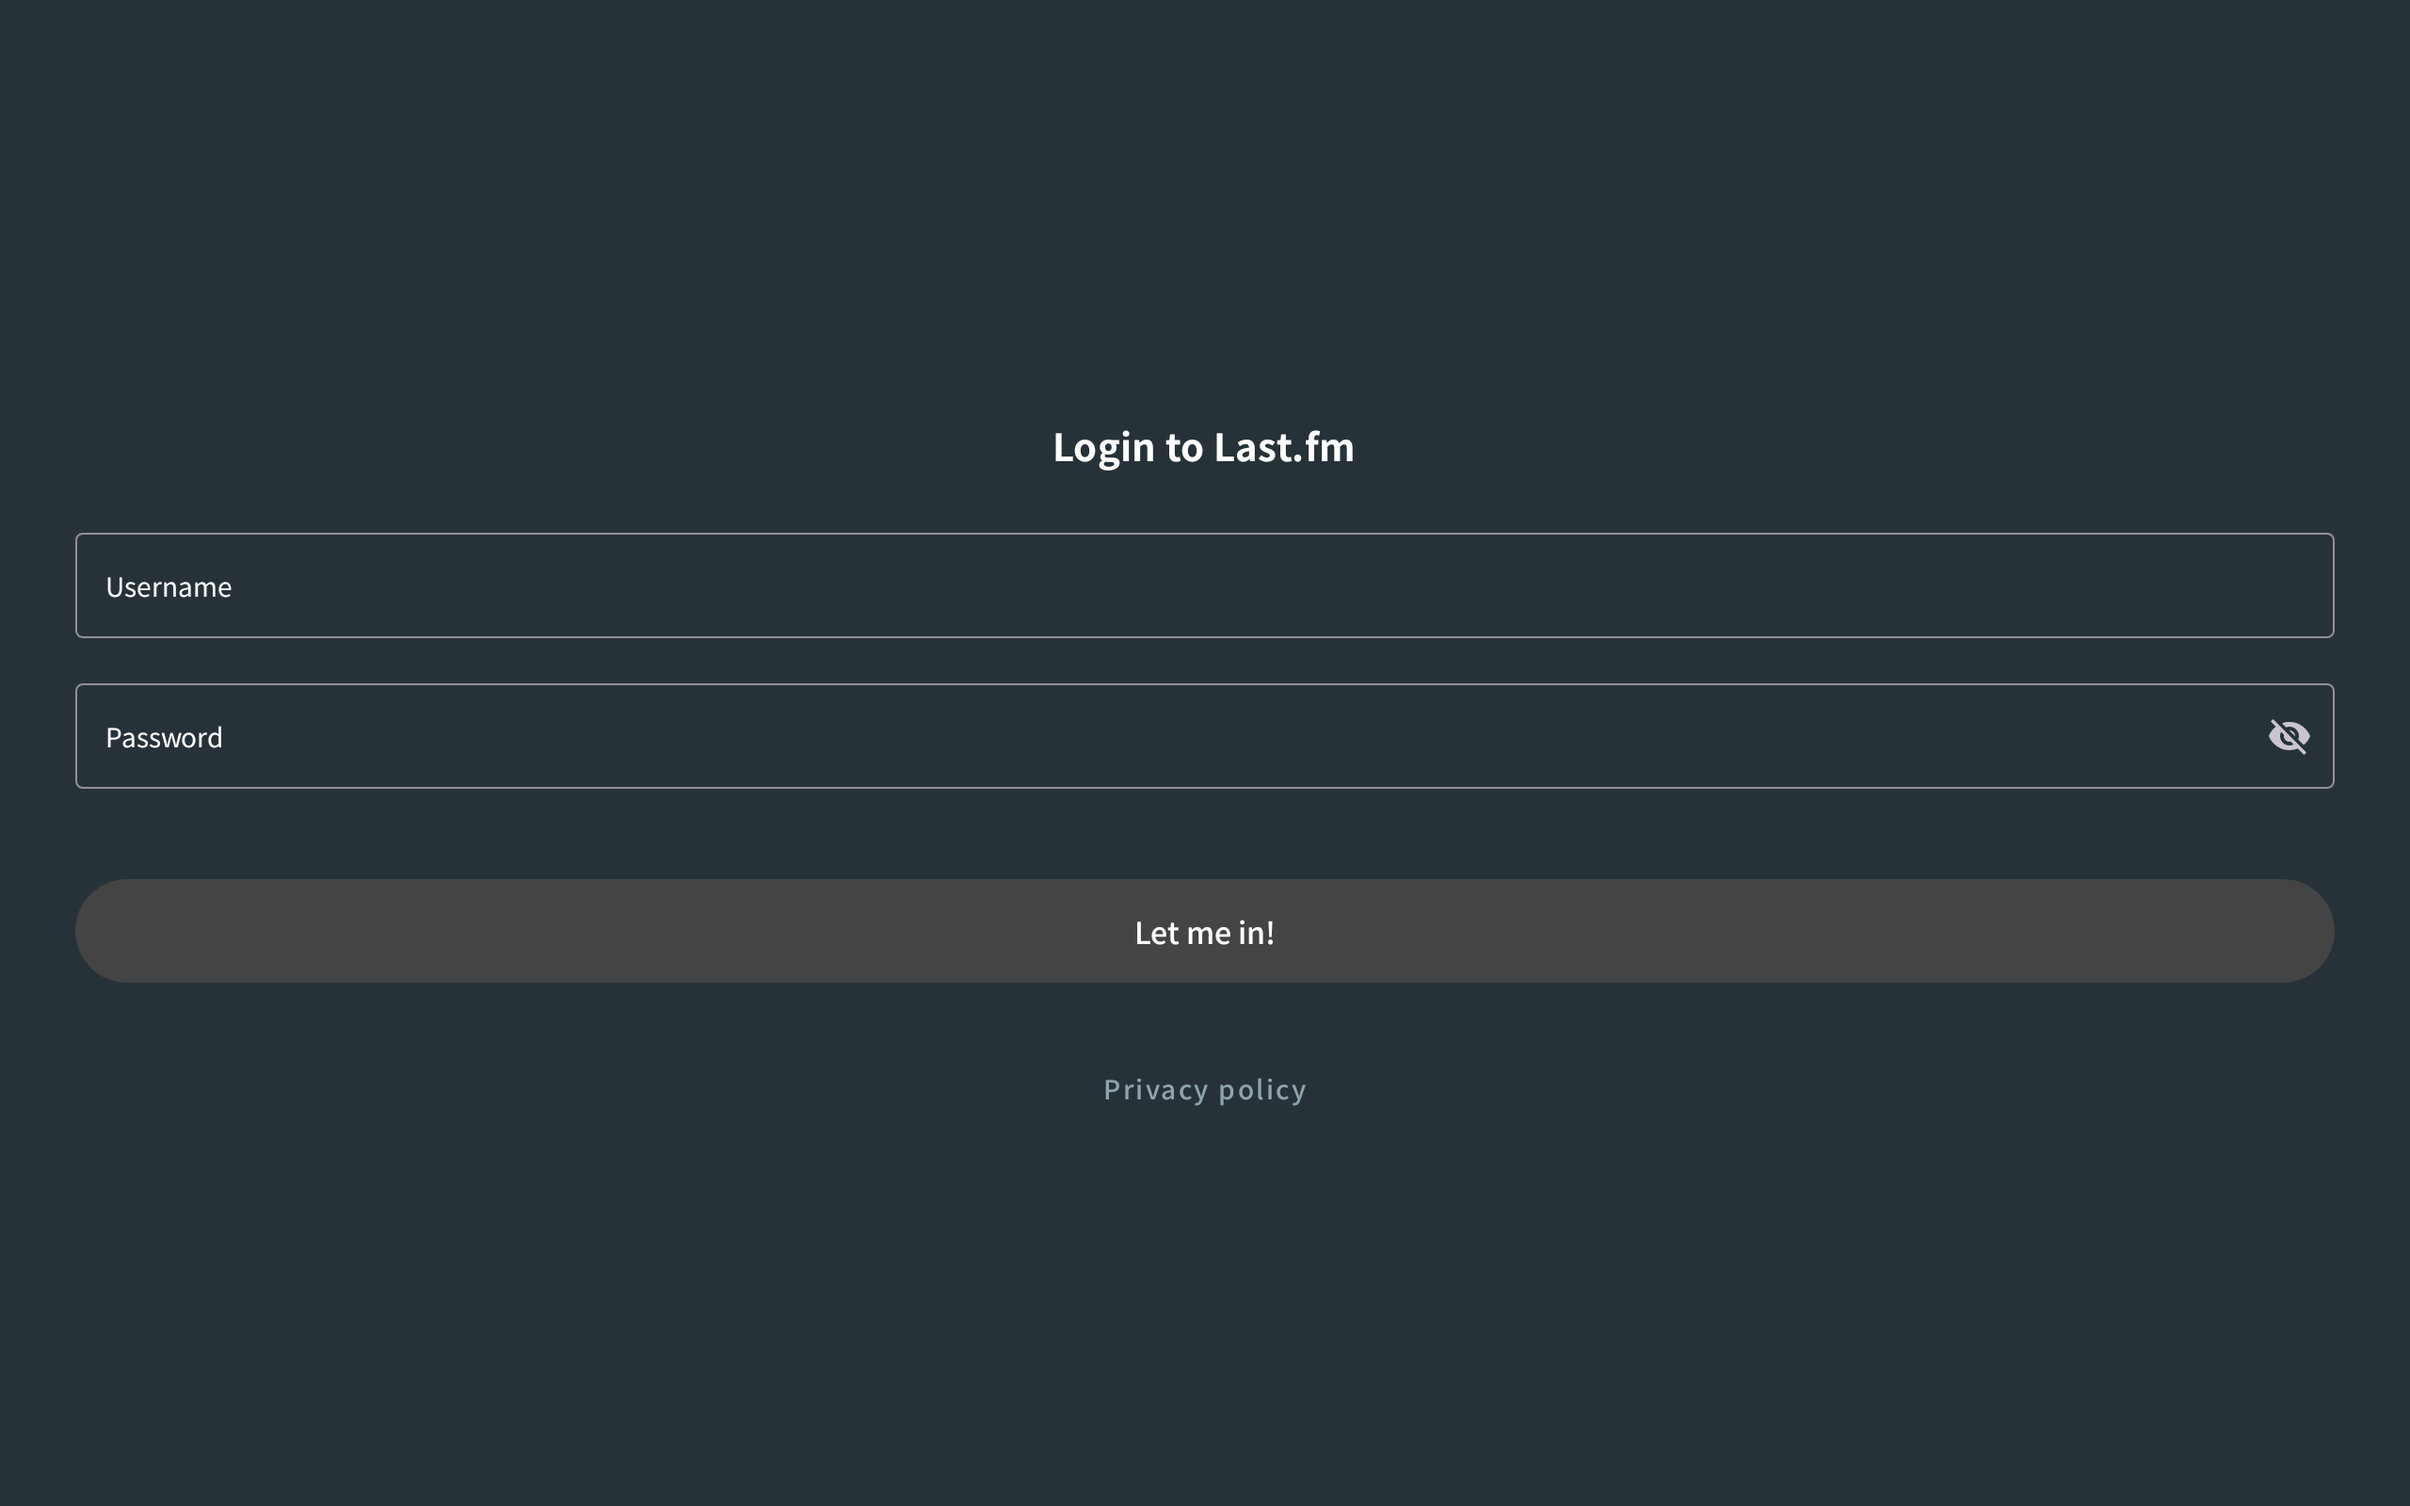
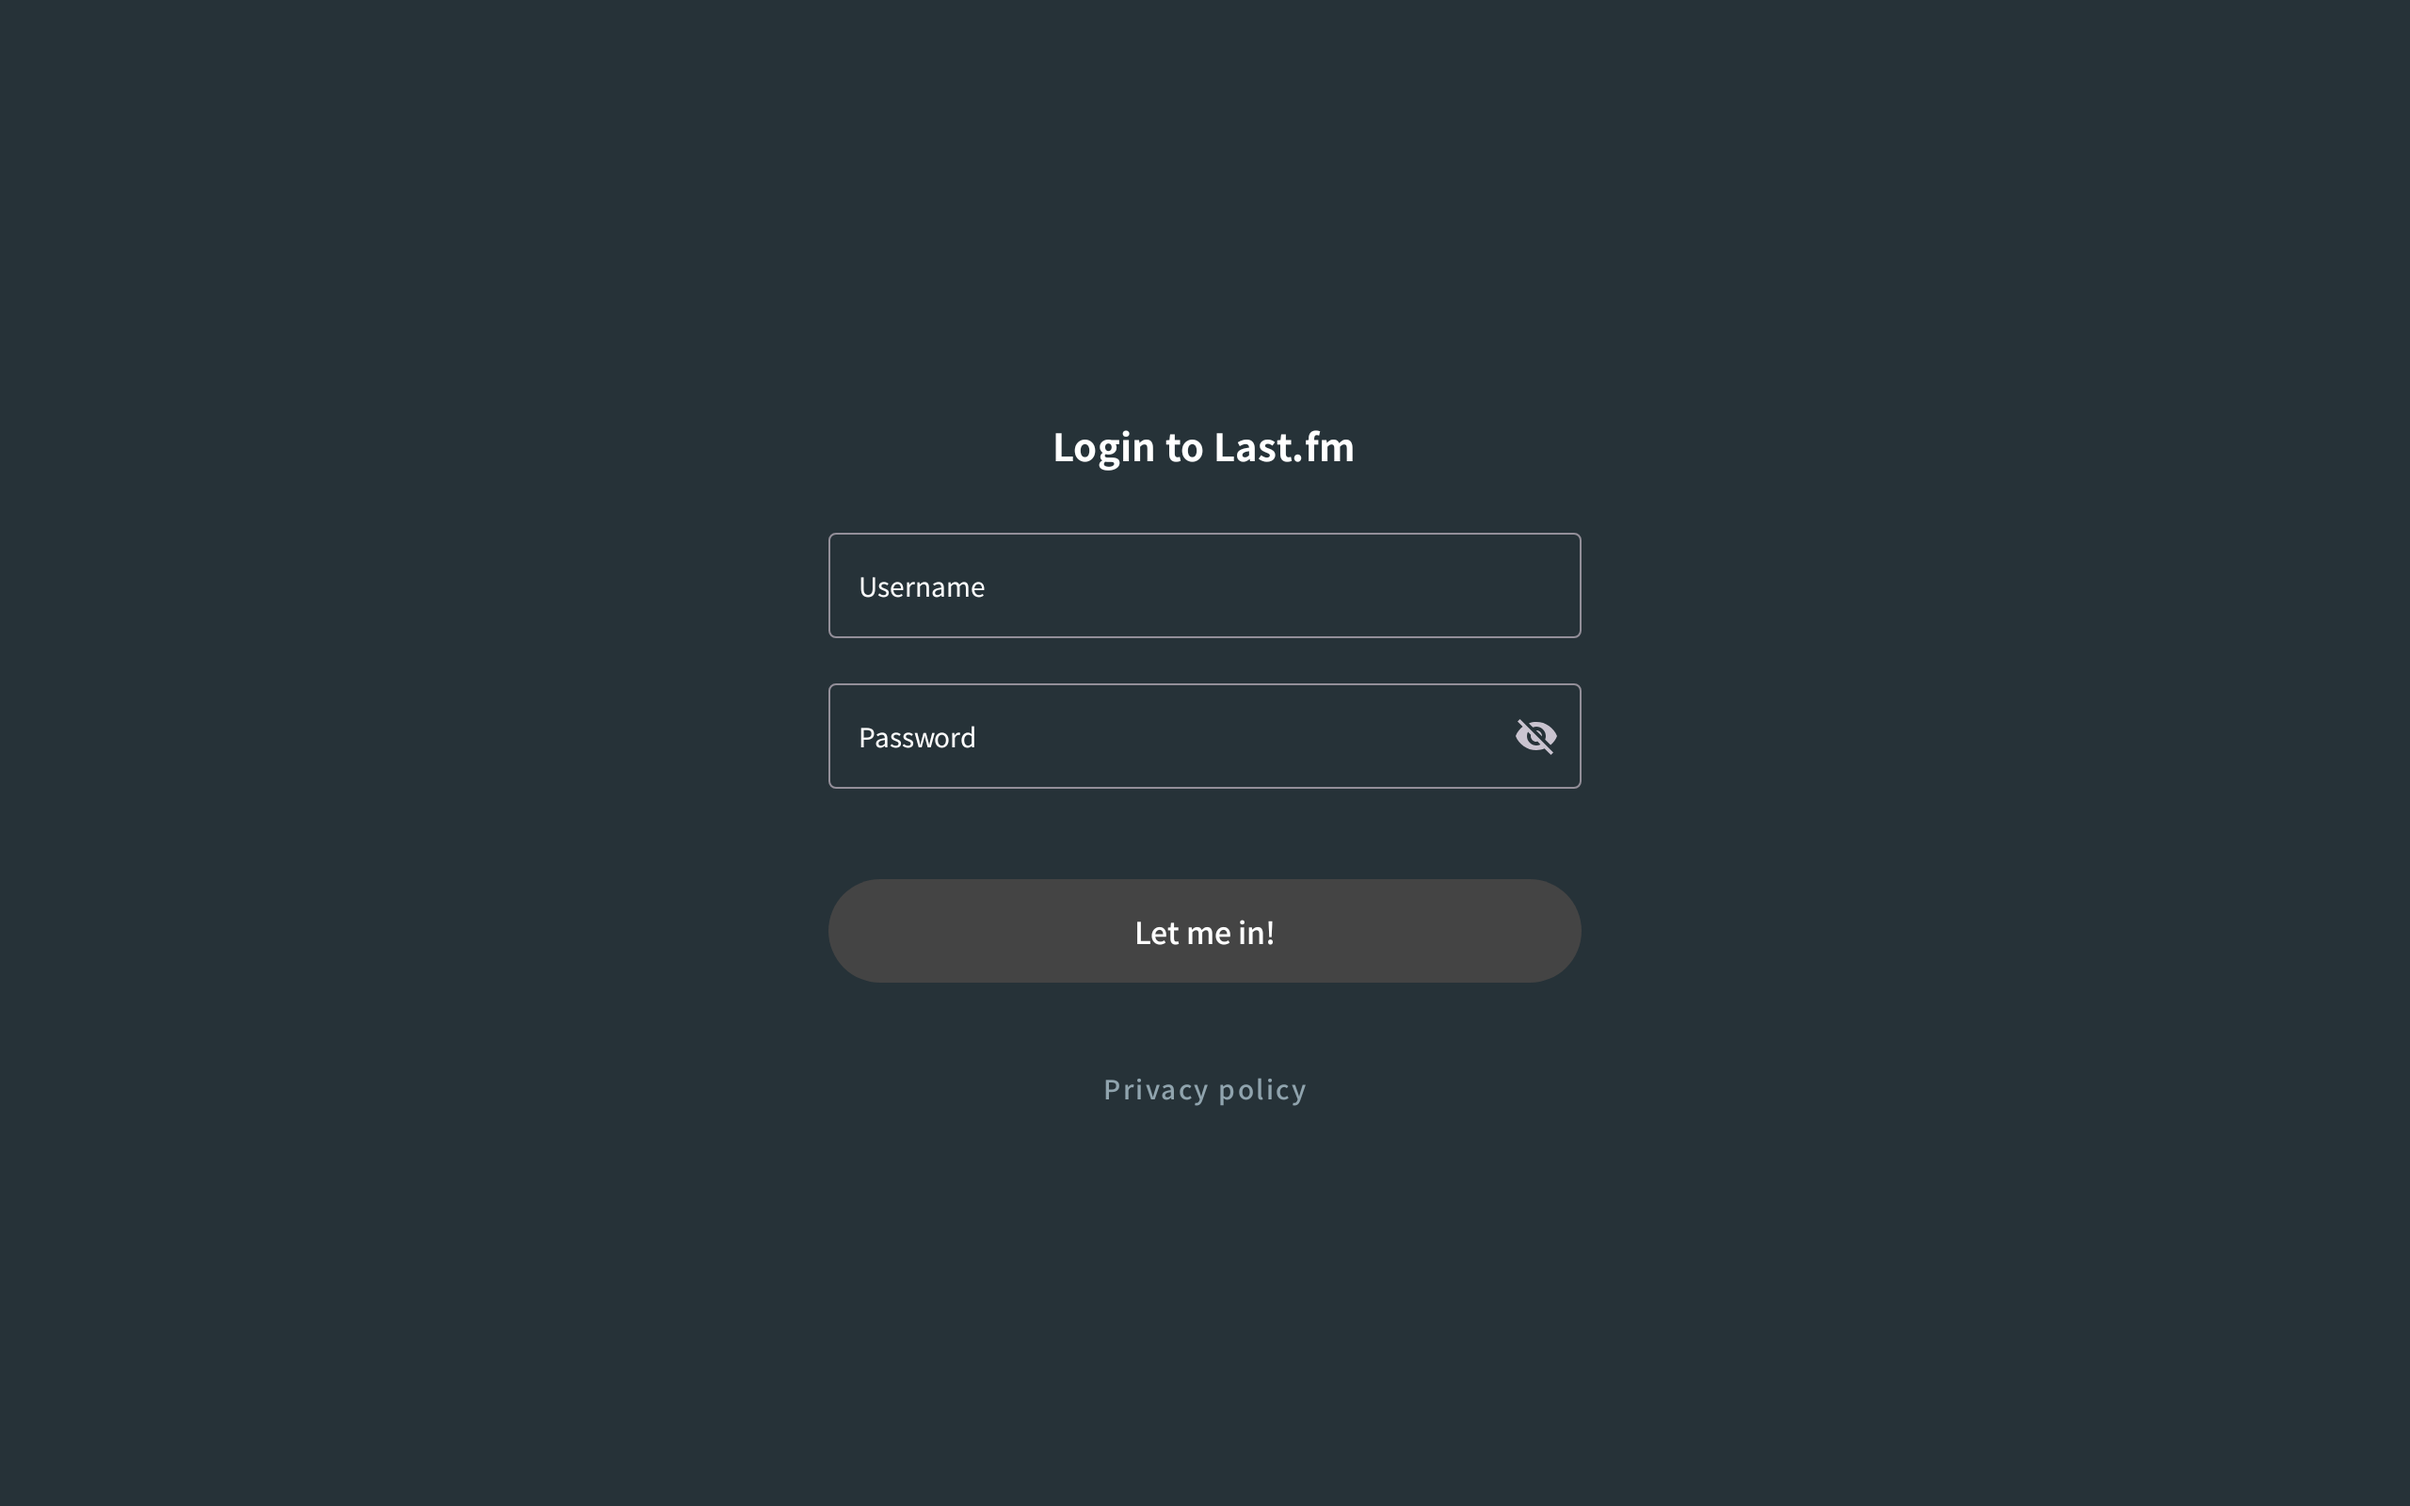
Center

diff --git a/feature/auth/src/main/java/com/mataku/scrobscrob/auth/ui/screen/LoginScreen.kt b/feature/auth/src/main/java/com/mataku/scrobscrob/auth/ui/screen/LoginScreen.kt
@@ -13,6 +13,7 @@ import androidx.compose.foundation.layout.imeNestedScroll
 import androidx.compose.foundation.layout.imePadding
 import androidx.compose.foundation.layout.padding
 import androidx.compose.foundation.layout.size
+import androidx.compose.foundation.layout.widthIn
 import androidx.compose.foundation.rememberScrollState
 import androidx.compose.foundation.text.KeyboardActions
 import androidx.compose.foundation.text.KeyboardOptions
@@ -138,127 +139,129 @@ private fun LoginContent(
     modifier = modifier
       .fillMaxSize()
       .verticalScroll(rememberScrollState())
-      .padding(horizontal = 16.dp)
       .imePadding()
       .imeNestedScroll(),
     horizontalAlignment = Alignment.CenterHorizontally,
     verticalArrangement = Arrangement.Center
   ) {
-    Spacer(modifier = Modifier.height(24.dp))
-
-    SunsetText.Title(
-      text = stringResource(id = uiCommonR.string.login_to_last_fm),
-      fontWeight = FontWeight.Bold,
-      modifier = Modifier.align(Alignment.CenterHorizontally),
-      color = LocalAppTheme.current.onSurfaceColor(),
-    )
-
-    Spacer(modifier = Modifier.height(24.dp))
-
-    SunsetTextField(
-      value = username,
-      onValueChange = {
-        onUsernameUpdate.invoke(it)
-      },
-      keyboardOptions = KeyboardOptions(
-        keyboardType = KeyboardType.Email,
-        imeAction = ImeAction.Next
-      ),
-      singleLine = true,
-      label = {
-        SunsetText.Label(
-          text = "Username",
-          color = LocalAppTheme.current.onSurfaceColor(),
-        )
-      },
+    Column(
       modifier = Modifier
-        .align(Alignment.CenterHorizontally)
+        .widthIn(max = 480.dp)
         .fillMaxWidth()
-        .padding(horizontal = 24.dp)
-        .semantics {
-          contentType = ContentType.Username
-        }
-    )
-
-    Spacer(modifier = Modifier.height(16.dp))
-
-    SunsetTextField(
-      value = password,
-      onValueChange = {
-        onPasswordUpdate.invoke(it)
-      },
-      keyboardOptions = KeyboardOptions(
-        keyboardType = KeyboardType.Password,
-        imeAction = ImeAction.Done
-      ),
-      singleLine = true,
-      visualTransformation = if (passwordVisible) VisualTransformation.None else PasswordVisualTransformation(),
-      trailingIcon = {
-        val icon = if (passwordVisible) {
-          Icons.Filled.Visibility
-        } else {
-          Icons.Filled.VisibilityOff
-        }
-        SunsetIconButton(onClick = {
-          passwordVisible = !passwordVisible
-        }) {
-          SunsetIcon(imageVector = icon, "password visibility toggle")
-        }
-      },
-      keyboardActions = KeyboardActions(
-        onDone = {
-          focusManager.clearFocus()
-        }
-      ),
-      label = {
-        SunsetText.Label(
-          text = "Password",
-          color = LocalAppTheme.current.onSurfaceColor(),
-        )
-      },
-      modifier = Modifier
-        .align(Alignment.CenterHorizontally)
-        .fillMaxWidth()
-        .padding(horizontal = 24.dp)
-        .semantics {
-          contentType = ContentType.Password
-        }
-    )
-
-    Spacer(modifier = Modifier.height(48.dp))
-
-    SunsetButton(
-      onClick = {
-        focusManager.clearFocus()
-        onLoginButtonTap(username, password)
-      },
-      modifier = Modifier
-        .fillMaxWidth()
-        .padding(horizontal = 24.dp),
-      enabled = !isLoading,
-      contentPadding = PaddingValues(vertical = 16.dp)
+        .padding(horizontal = 40.dp),
+      horizontalAlignment = Alignment.CenterHorizontally,
     ) {
-      if (isLoading) {
-        SunsetCircularProgressIndicator(
-          modifier = Modifier
-            .size(16.dp)
-            .background(color = Color.Transparent)
-            .align(alignment = Alignment.CenterVertically)
-        )
-      } else {
-        SunsetText.Body(
-          text = "Let me in!",
-          fontWeight = FontWeight.Medium,
-        )
+      Spacer(modifier = Modifier.height(24.dp))
+
+      SunsetText.Title(
+        text = stringResource(id = uiCommonR.string.login_to_last_fm),
+        fontWeight = FontWeight.Bold,
+        modifier = Modifier.align(Alignment.CenterHorizontally),
+        color = LocalAppTheme.current.onSurfaceColor(),
+      )
+
+      Spacer(modifier = Modifier.height(24.dp))
+
+      SunsetTextField(
+        value = username,
+        onValueChange = {
+          onUsernameUpdate.invoke(it)
+        },
+        keyboardOptions = KeyboardOptions(
+          keyboardType = KeyboardType.Email,
+          imeAction = ImeAction.Next
+        ),
+        singleLine = true,
+        label = {
+          SunsetText.Label(
+            text = "Username",
+            color = LocalAppTheme.current.onSurfaceColor(),
+          )
+        },
+        modifier = Modifier
+          .fillMaxWidth()
+          .semantics {
+            contentType = ContentType.Username
+          }
+      )
+
+      Spacer(modifier = Modifier.height(16.dp))
+
+      SunsetTextField(
+        value = password,
+        onValueChange = {
+          onPasswordUpdate.invoke(it)
+        },
+        keyboardOptions = KeyboardOptions(
+          keyboardType = KeyboardType.Password,
+          imeAction = ImeAction.Done
+        ),
+        singleLine = true,
+        visualTransformation = if (passwordVisible) VisualTransformation.None else PasswordVisualTransformation(),
+        trailingIcon = {
+          val icon = if (passwordVisible) {
+            Icons.Filled.Visibility
+          } else {
+            Icons.Filled.VisibilityOff
+          }
+          SunsetIconButton(onClick = {
+            passwordVisible = !passwordVisible
+          }) {
+            SunsetIcon(imageVector = icon, "password visibility toggle")
+          }
+        },
+        keyboardActions = KeyboardActions(
+          onDone = {
+            focusManager.clearFocus()
+          }
+        ),
+        label = {
+          SunsetText.Label(
+            text = "Password",
+            color = LocalAppTheme.current.onSurfaceColor(),
+          )
+        },
+        modifier = Modifier
+          .fillMaxWidth()
+          .semantics {
+            contentType = ContentType.Password
+          }
+      )
+
+      Spacer(modifier = Modifier.height(48.dp))
+
+      SunsetButton(
+        onClick = {
+          focusManager.clearFocus()
+          onLoginButtonTap(username, password)
+        },
+        modifier = Modifier
+          .fillMaxWidth(),
+        enabled = !isLoading,
+        contentPadding = PaddingValues(vertical = 16.dp)
+      ) {
+        if (isLoading) {
+          SunsetCircularProgressIndicator(
+            modifier = Modifier
+              .size(16.dp)
+              .background(color = Color.Transparent)
+              .align(alignment = Alignment.CenterVertically)
+          )
+        } else {
+          SunsetText.Body(
+            text = "Let me in!",
+            fontWeight = FontWeight.Medium,
+          )
+        }
       }
+
+      Spacer(modifier = Modifier.height(32.dp))
+
+      SunsetTextButton.Label(
+        text = "Privacy policy",
+        onClick = onPrivacyPolicyTap,
+      )
     }
-
-    Spacer(modifier = Modifier.height(32.dp))
-
-    SunsetTextButton.Label(
-      text = "Privacy policy",
-      onClick = onPrivacyPolicyTap,
-    )
   }
 }
 
